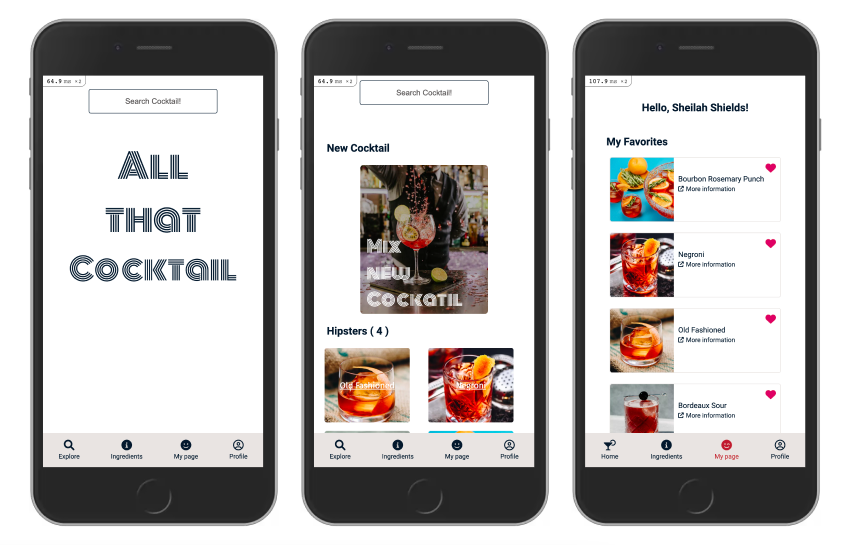
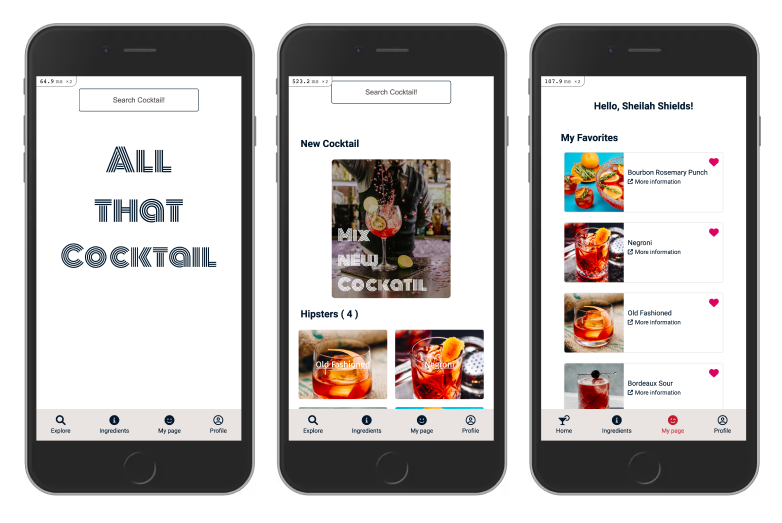
components position

diff --git a/app/assets/stylesheets/components/_card.scss b/app/assets/stylesheets/components/_card.scss
@@ -2,19 +2,24 @@
   display: grid;
   grid-template-columns: 1fr 1fr;
   grid-gap: 16px;
+  margin: 0;
   justify-content: center;
   padding: 20px;
   text-decoration: none;
+
+  .sample-contents {
+    margin: 0;
+  }
 }
 
 .sample-card {
   display: flex;
   justify-content: center;
   align-items: center;
-  margin: 0;
-  padding: 0;
+  // margin: 0;
+  // padding: 0;
   height: 140px;
-  width: 160px;
+  width: 179px;
   background-size: cover;
   border-radius: 4px;
   text-decoration: underline;
@@ -24,10 +29,10 @@
     color: white;
     text-align: center;
     font-family: 'Fira Sans', sans-serif;
-    font-size: 16px;
+    font-size: 17px;
   }
 
-  & a {
+  & a:-webkit-any-link {
     text-decoration: none !important;
   }
 }
@@ -47,7 +52,7 @@
   display: flex;
   justify-content: center;
   align-items: center;
-  width: 160px;
+  width: 179px;
   height: 140px;
   background-size: cover;
   border-radius: 4px;
@@ -57,8 +62,9 @@
   & p {
     text-decoration: underline;
     color: white;
-    font-size: 16px;
+    font-size: 17px;
     text-align: center;
+    width: 110px;
   }
 }
 

diff --git a/app/assets/stylesheets/cocktails/_explore.scss b/app/assets/stylesheets/cocktails/_explore.scss
@@ -1,5 +1,5 @@
 .explore-mix {
-  display: block;
+  // display: block;
   justify-content: center;
   align-items: center;
   text-decoration: none;
@@ -16,7 +16,7 @@
     display: flex;
     justify-content: center;
     align-items: center;
-    text-align: left;
+    // text-align: left;
 
     .explore-mix-text {
       margin: 0;
